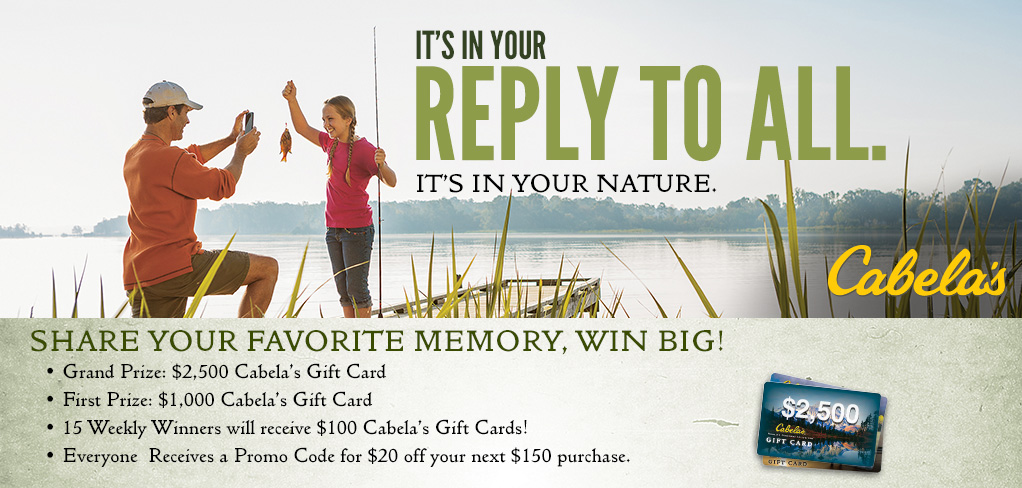
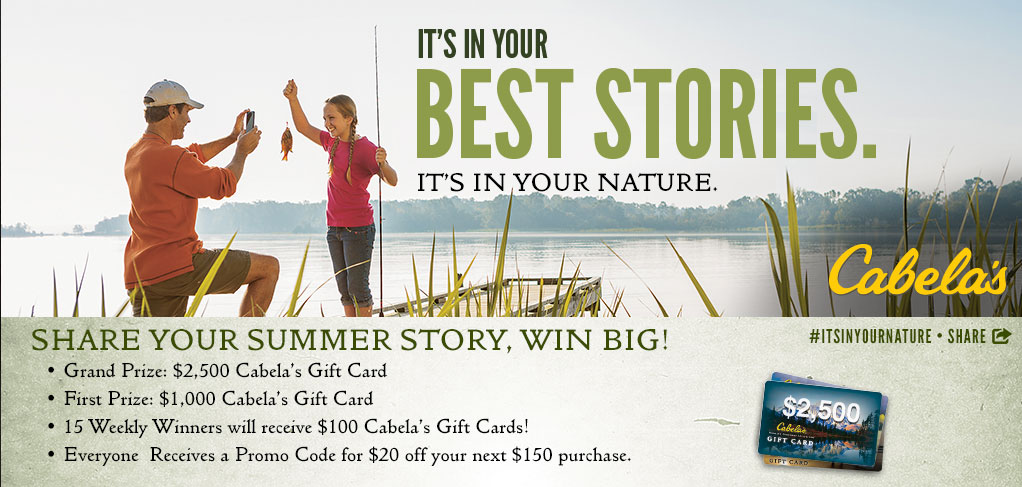
Update for iiyn summer

diff --git a/wp-content/themes/imo-mags-gameandfish/style.css b/wp-content/themes/imo-mags-gameandfish/style.css
@@ -661,9 +661,31 @@ p.state-name{
 	padding: 0;
 	border: none;
 }
+.category-summer-family-iiyn #masthead{
+        background: url("img/iiyn-thanks.jpg") no-repeat center top;
+        width: 1022px;
+        height: 488px;
+        padding: 0;
+        border: none;
+}
+.category-fall-iiyn #masthead{
+        background: url("img/iiyn-thanks.jpg") no-repeat center top;
+        width: 1022px;
+        height: 488px;
+        padding: 0;
+        border: none;
+}
 .category-thanks-dad-iiyn h2{
 	font-family: 'Arvo', arial, serif;
 	font-weight: normal;
+}
+.category-summer-family-iiyn h2{
+        font-family: 'Arvo', arial, serif;
+        font-weight: normal;
+}
+.category-fall-iiyn h2{
+        font-family: 'Arvo', arial, serif;
+        font-weight: normal;
 }
 .iiyn-entry-page #masthead{
 	background: url("img/iiyn-entry.jpg") no-repeat center top;
@@ -677,6 +699,16 @@ p.state-name{
 	position: absolute;
 	left: -9999px;
 	height: 0px;
+}
+.category-fall-iiyn #masthead h1, .iiyn-entry-page #masthead h1{
+        position: absolute;
+        left: -9999px;
+        height: 0px;
+}
+.category-summer-family-iiyn #masthead h1, .iiyn-entry-page #masthead h1{
+        position: absolute;
+        left: -9999px;
+        height: 0px;
 }
 .iiyn{
 	width: 100%;

diff --git a/wp-content/themes/imo-mags-gameandfish/category-summer-family-iiyn.php b/wp-content/themes/imo-mags-gameandfish/category-summer-family-iiyn.php
@@ -1,0 +1,92 @@
+<?php
+
+/**
+ * @package carrington-business
+ *
+ * This file is part of the Carrington Business Theme for WordPress
+ * http://crowdfavorite.com/wordpress/themes/carrington-business/
+ *
+ * Copyright (c) 2008-2011 Crowd Favorite, Ltd. All rights reserved.
+ * http://crowdfavorite.com
+ *
+ * **********************************************************************
+ * This program is distributed in the hope that it will be useful, but
+ * WITHOUT ANY WARRANTY; without even the implied warranty of
+ * MERCHANTABILITY or FITNESS FOR A PARTICULAR PURPOSE.
+ * **********************************************************************
+ */
+
+if (__FILE__ == $_SERVER['SCRIPT_FILENAME']) { die(); }
+
+// NOTE: this file is here for compatibility reasons - active templates are in the posts/ dir
+
+if (CFCT_DEBUG) { cfct_banner(__FILE__); }
+
+get_header(); ?>
+<div class="category-page">
+	<header id="masthead">
+		<h1>Summer Family and Fun</h1>
+	</header>
+	<div class="bonus-background">
+		<div class="bonus">
+			<?php if (function_exists('dynamic_sidebar') && dynamic_sidebar('sidebar-sweeps')) : else : ?><?php endif; ?>
+		</div>
+		<div id="responderfollow"></div>
+		<div class="sidebar advert">
+			<?php imo_dart_tag("300x250",false,array("pos"=>"btf")); ?>
+			<?php if (function_exists('dynamic_sidebar') && dynamic_sidebar('scroll-sidebar')) : else : endif; ?>
+		</div>
+	</div>
+
+
+	<div class="col-ab">
+		<!-- FOR WHEN THE GALLERY FOR SUMMER IS READY ---  <p>To celebrate our dads and all they've done for us, the editors of Intermedia Outdoors have joined forces to pay tribute to the men that made us sportsmen.</p>-->
+
+
+		<?php
+
+
+
+
+			//echo do_shortcode('[imo-slideshow gallery=92]');
+		?>
+
+
+	<h2>Recent Entries</h2>
+	<?php
+
+	$args = array(
+	'post_type' => 'entries',
+	'category_name' => 'summer-family-iiyn'
+	);
+
+	// The Query
+	$the_query = new WP_Query( $args );
+
+	// The Loop
+	while ( $the_query->have_posts() ) :
+		$the_query->the_post();
+		$postID = get_the_ID();
+		echo '<div class="iiyn">';
+			if ( has_post_thumbnail() ) {
+				echo '<div class="iiyn-thumb">' . get_the_post_thumbnail() . '</div>';
+			}
+			echo '<h4 class="iiyn-title">' . get_the_title() . '</h4>';
+			echo '<h6 class="iiyn-name">' . get_post_meta($postID,"cabelas_entry_full_name",true) . ' &#8226; <span>' . get_post_meta($postID,"cabelas_entry_location",true) . '</span></h6>';
+			echo '<p>' . the_content() . '</p>';
+		echo '</div>';
+	endwhile;
+
+	/* Restore original Post Data
+	 * NB: Because we are using new WP_Query we aren't stomping on the
+	 * original $wp_query and it does not need to be reset.
+	*/
+	wp_reset_postdata();
+
+	cfct_misc('nav-posts');
+	?>
+
+
+	</div>
+
+<?php get_footer(); ?>
